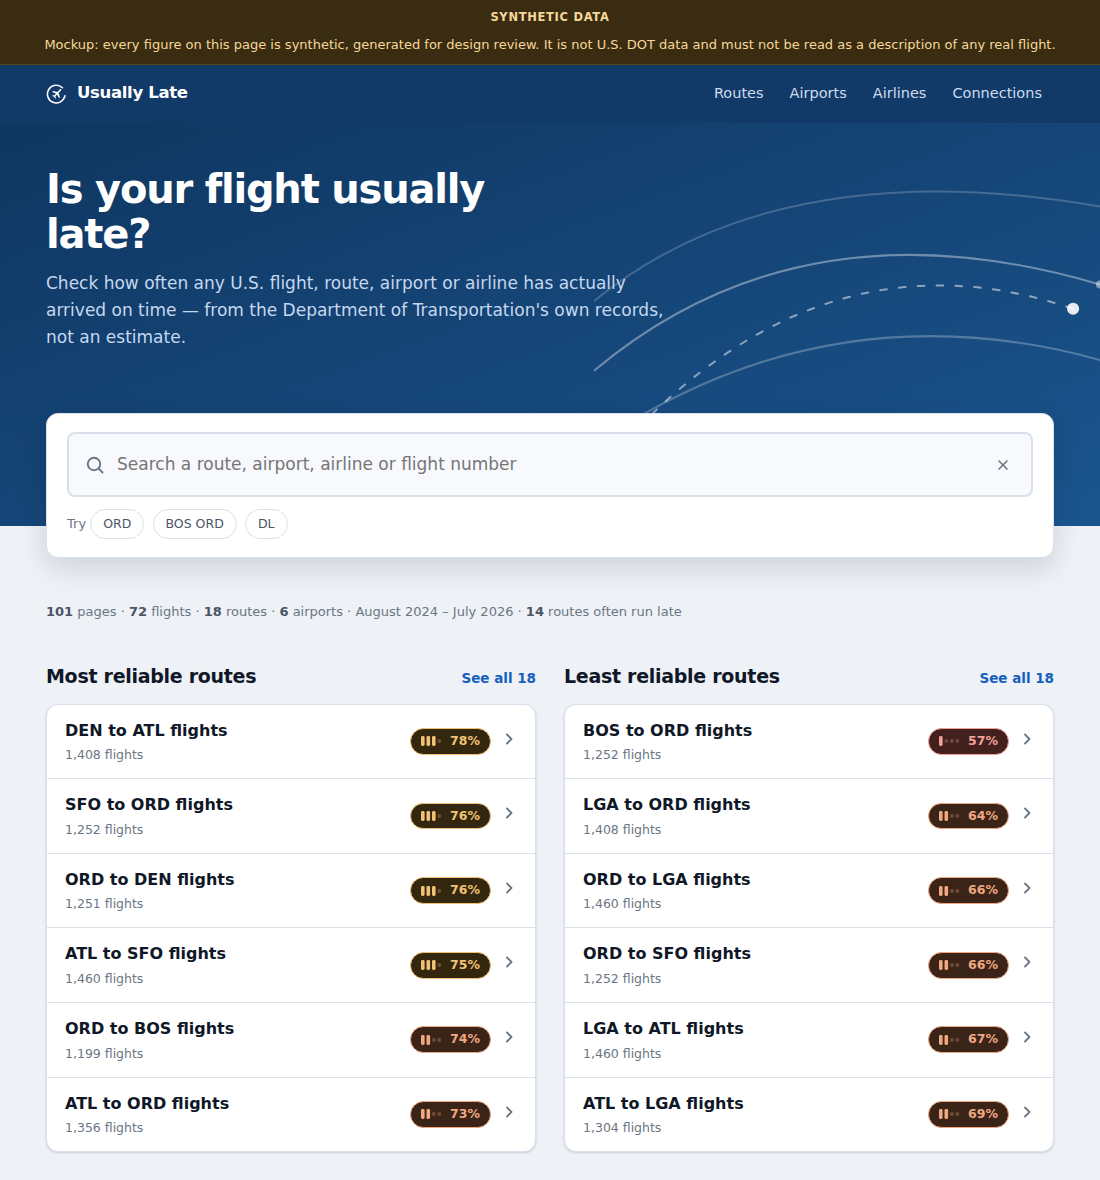
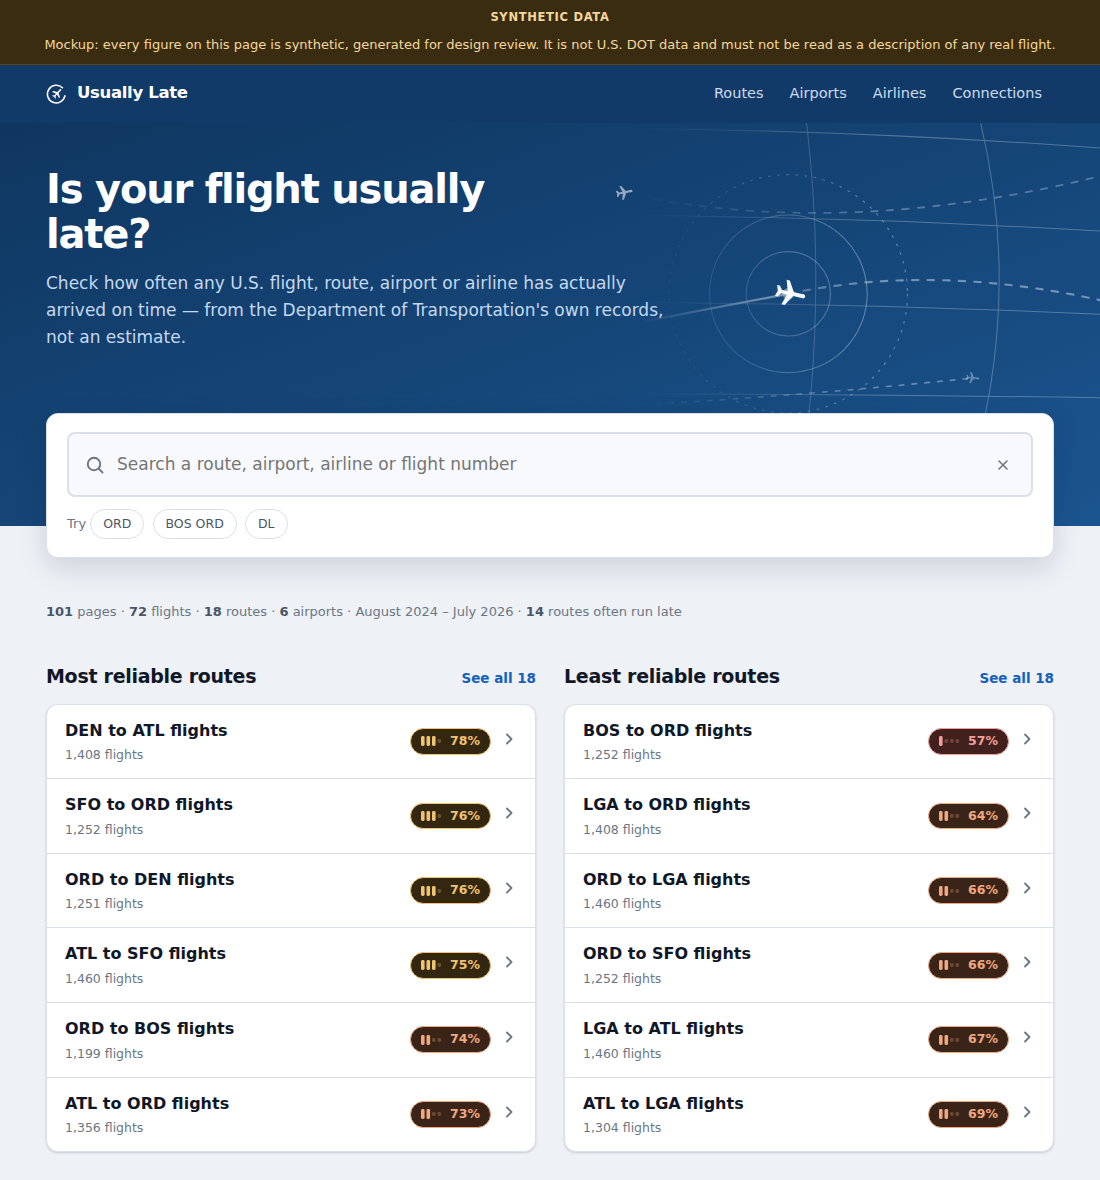
Give the hero a flight-tracker backdrop
Replaces the flight-path motif with tracker chrome: a graticule, great-circle
tracks with the flown portion solid and the remainder dashed, plane glyphs
with a heading, waypoints and range rings.

What it deliberately does not have: a basemap, flight numbers, route codes,
labels, or anything resembling a position.

Live tracking is explicitly out of scope (PLAN.md section 1). A backdrop
showing labelled aircraft at positions would imply a capability the site
does not have. A stylised map with real airport codes on invented
coordinates would be worse — inventing data in the place a reader is most
likely to read it literally. Decoration is allowed to be decorative; it is
not allowed to look like data. If M2 lands the BTS airport lookup table
with verified coordinates, a real route map becomes possible and honest;
that is noted in DECISIONS.md.

The mask that keeps the art clear of the text is set from contrast
arithmetic rather than by eye. White art at ~24% over the navy band puts
white text near 3.4:1, under the 4.5:1 floor, and a 2px track crossing a
glyph is exactly the case that is easy to wave away. The first two attempts
let a track graze the lede; the stops now hold anything under text below
10% opacity. Below 760px the text wraps full-width and a horizontal mask
stops helping, so the whole backdrop dims to 45% instead.

137 tests, 0 type errors, 1664 internal links clean, autocomplete passing,
no horizontal overflow at 390px. Screenshots and theme comparisons
[…]

diff --git a/docs/DECISIONS.md b/docs/DECISIONS.md
@@ -12,6 +12,20 @@ Record meaningful choices here, newest first.
 
 ---
 
+### 2026-09-19 · The hero backdrop is a tracker, but carries no positions
+- **Decision:** The hero shows flight-tracker chrome — a graticule, great-circle tracks with the flown portion solid and the remainder dashed, plane glyphs with a heading, waypoints and range rings. It has no basemap, no flight numbers, no route codes and no labels.
+- **Why:** The look was asked for and it suits the subject. The omissions are the point: this site is historical planning data, and live tracking is explicitly out of scope (PLAN.md §1). A backdrop showing labelled aircraft at positions would imply a capability the site does not have, and a decorative map with real airport codes on invented coordinates would be inventing data in the one place a reader is most likely to take it literally. Decoration may be decorative; it may not look like data.
+- **Alternatives considered:** A stylised map with real route arcs (needs airport coordinates we have not sourced, and the arcs would be read as real); tracker labels using genuine route codes from the manifest (the positions would still be fiction); licensed photography (cost, and it says nothing).
+- **Revisit if:** the BTS airport lookup table lands in M2, which would give verified coordinates — a real route map then becomes possible and honest.
+
+### 2026-09-19 · The backdrop mask is set by contrast, not by taste
+- **Decision:** The gradient mask holds the backdrop at under 10% opacity anywhere text sits, and the whole backdrop dims to 45% below 760px where the text wraps full-width and a horizontal mask stops helping.
+- **Why:** White art at around 24% over the navy band puts white text near 3.4:1, under the 4.5:1 floor. A 2px track crossing a glyph is exactly the kind of thing that is easy to wave away, and the first two attempts did let a track graze the lede. Setting the stops from the contrast arithmetic rather than from how it looked is what fixed it.
+- **Alternatives considered:** Lower global opacity (kills the art everywhere to solve it in one place); moving the tracks off the text (fragile — it breaks at the next copy change).
+- **Revisit if:** the hero copy gets longer or the band gets shorter; both move where the text column ends.
+
+---
+
 ### 2026-09-19 · The mark is a dial with a plane climbing out of it
 - **Decision:** `site/src/components/Logo.astro` holds the single definition of the mark: an open clock dial with a gap, and a plane climbing out through it. `public/favicon.svg` is the same shape with a heavier arc.
 - **Why:** It carries both halves of the name in one shape, and it was the only one of five candidates still legible at 22px. The ones that layered a plane over clock hands turned into a smudge; a plane outside the dial read as a stray antenna; dial ticks plus a plane read as a crosshair. Rendering the candidates at real size and looking at them decided it, which is faster and more honest than arguing about it at 200%.

diff --git a/docs/PROGRESS.md b/docs/PROGRESS.md
@@ -2,7 +2,32 @@
 
 Update at the end of each working session.
 
-## 2026-09-19 (later) — logo and favicon
+## 2026-09-19 (latest) — flight-tracker hero backdrop
+
+**Done**
+
+- Replaced the hero's flight-path motif with a **flight-tracker backdrop**:
+  graticule, great-circle tracks with the flown portion solid and the remainder
+  dashed, plane glyphs with a heading, waypoints and range rings.
+  `site/src/components/HeroBackdrop.astro`.
+- **It deliberately carries no positions, flight numbers or route codes.** Live
+  tracking is out of scope (PLAN.md §1), so a backdrop that looked like live
+  aircraft would imply a capability the site does not have — and a map with real
+  airport codes on invented coordinates would be inventing data in the place a
+  reader is most likely to take it literally. Recorded in DECISIONS.md, with a
+  note that a real route map becomes possible once M2 lands the BTS airport
+  lookup table with verified coordinates.
+- The mask that keeps the art off the text is set from contrast arithmetic, not
+  by eye: white art at ~24% over the navy band puts white text near 3.4:1,
+  under the floor. Two earlier attempts let a track graze the lede. Below 760px
+  the text wraps full-width and a horizontal mask cannot help, so the whole
+  backdrop dims instead.
+
+**Next**
+
+Unchanged: `make verify-source MONTH=2025-01` from a machine that can reach BTS.
+
+## 2026-09-19 — logo and favicon
 
 **Done**
 
